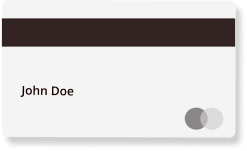
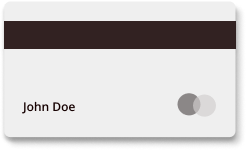
card flipper

diff --git a/index.html b/index.html
@@ -111,10 +111,30 @@
                                 suas contas, acompanhar seus gastos e pesquisar suas transações de forma fácil.</p>
                         </div>
                     </div>
-                    <div class="image-card-front-back ">
-                        <img class="card" src="assets/src/image/card-front.png" alt="cartão de crédito">
+
+
+                    <div class="card__flip--container ">
+                        <div class="flipper">
+                            <div class="front">
+                                <div class=" box box-front">
+                                    <img class="card__front card" src="assets/src/image/card-front.png"
+                                        alt="cartão de crédito parte da frente">
+                                </div>
+                            </div>
+
+                            <div class="back">
+                                <div class="box box-back">
+                                    <img class="card__front card" src="assets/src/image/card-back.png"
+                                        alt="cartão de crédito parte da frente">
+                                </div>
+                            </div>
+
+
+                        </div>
                     </div>
                 </div>
+
+
             </section>
 
             <section class="block_feedback">

diff --git a/assets/css/benefits.css b/assets/css/benefits.css
@@ -6,13 +6,13 @@
 
 .block_section-benefits h2 {
   font-size: 2rem;
-  padding: 2rem 0 2rem 3.5rem;
+  padding: 2rem 0 2rem 7rem;
 }
 .block_benefits-presentation {
   display: flex;
   justify-content: space-between;
   align-items: center;
-  width: 1200px;
+  width: 1100px;
 }
 
 .block_background-benefits {
@@ -46,5 +46,42 @@
   width: 40px;
 }
 .card {
-  width: 450px;
+  width: 400px;
+}
+
+.card__flip--container {
+  perspective: 1000;
+}
+.card__flip--container:hover .flipper,
+.card__flip--container.hover .flipper {
+  transform: rotateY(180deg);
+}
+
+.card__flip--container,
+.front,
+.back {
+  width: 400px;
+}
+
+.flipper {
+  transition: 0.8s;
+  transform-style: preserve-3d;
+  position: relative;
+}
+
+.front,
+.back {
+  backface-visibility: hidden;
+  position: absolute;
+  bottom: -120px;
+  left: 0;
+}
+
+.front {
+  z-index: 2;
+  transform: rotateY(0deg);
+}
+
+.back {
+  transform: rotateY(180deg);
 }
